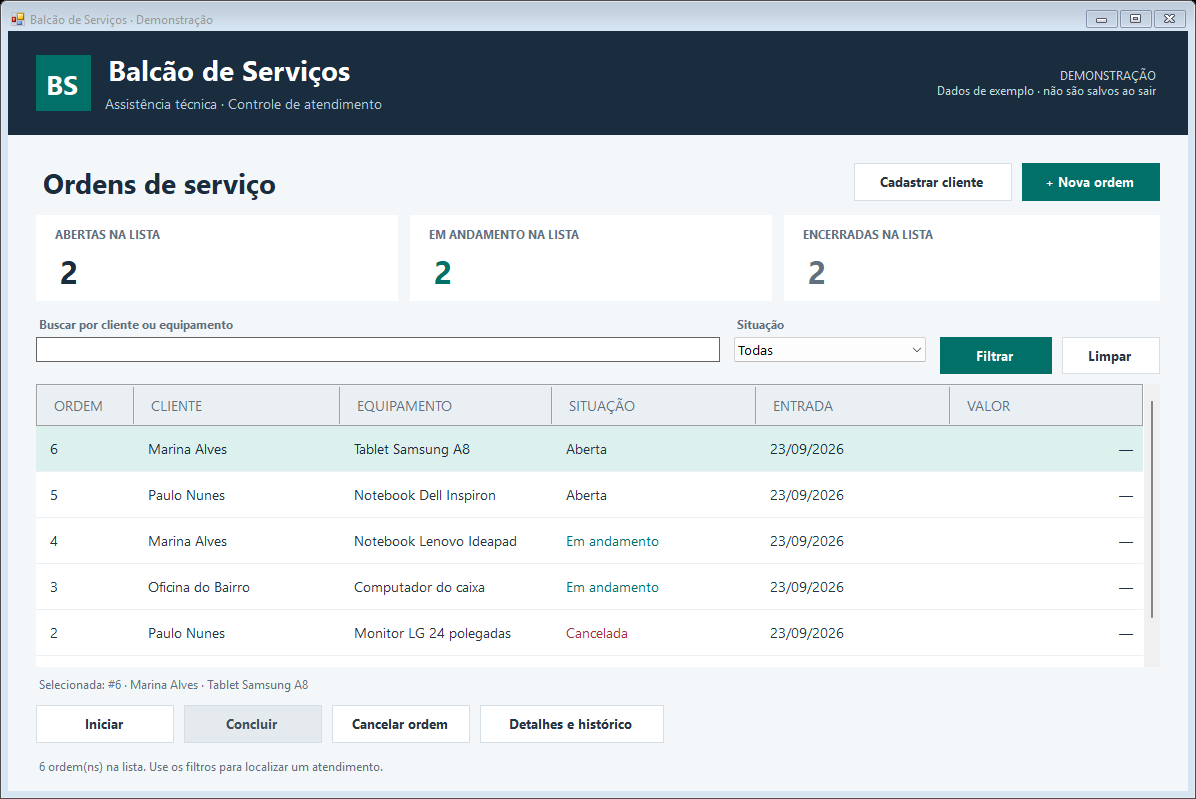
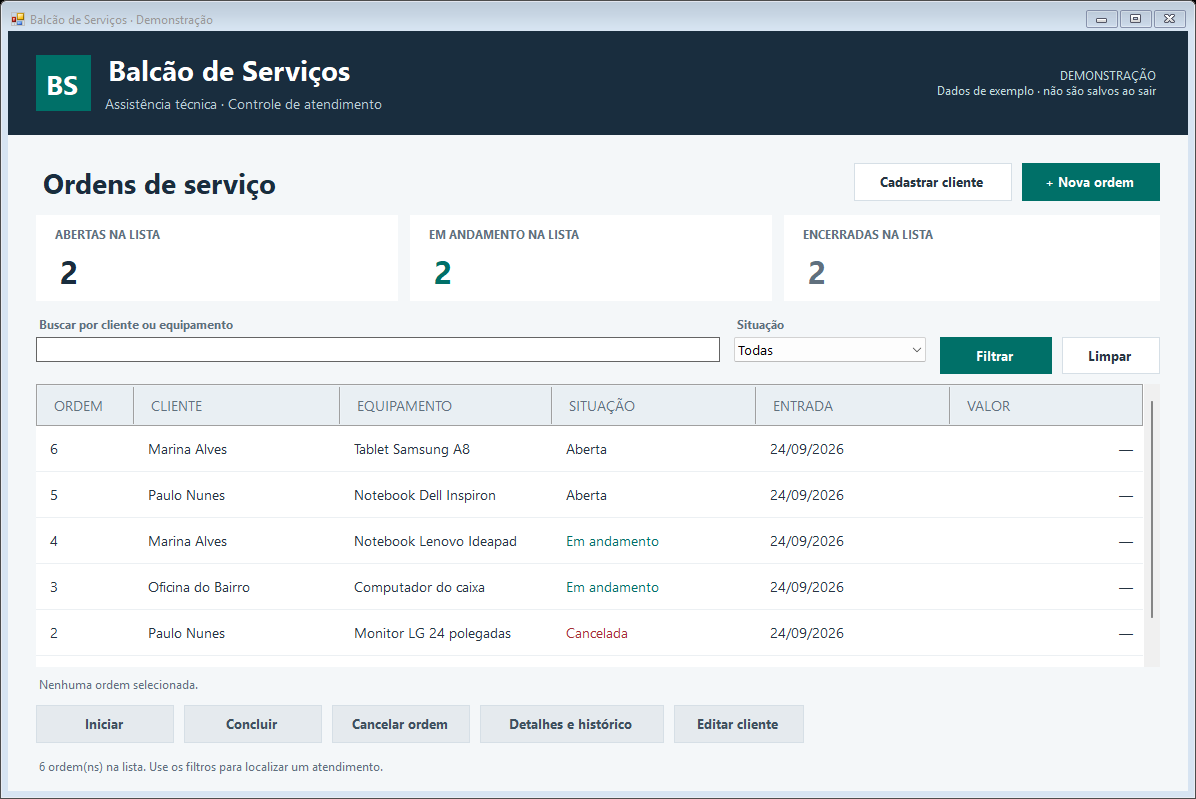
Corrigir selecao automatica apos filtrar ordens

Changed region(s): [[0.0309, 0.5106, 0.959, 0.6008], [0.2784, 0.8711, 0.6497, 0.9312], [0.0309, 0.8411, 0.2475, 0.9312]]

diff --git a/src/Balcao.WinForms/MainForm.cs b/src/Balcao.WinForms/MainForm.cs
@@ -211,6 +211,7 @@ namespace Balcao.WinForms
             tabela.Columns.Add(new DataGridViewTextBoxColumn { DataPropertyName = "CriadaEm", HeaderText = "ENTRADA", FillWeight = 13, DefaultCellStyle = new DataGridViewCellStyle { Format = "dd/MM/yyyy" } });
             tabela.Columns.Add(new DataGridViewTextBoxColumn { DataPropertyName = "ValorFinal", HeaderText = "VALOR", FillWeight = 13, DefaultCellStyle = new DataGridViewCellStyle { Format = "C2", FormatProvider = CultureInfo.GetCultureInfo("pt-BR"), NullValue = "—", Alignment = DataGridViewContentAlignment.MiddleRight } });
             tabela.SelectionChanged += delegate { AtualizarSelecao(); };
+            tabela.CurrentCellChanged += delegate { AtualizarSelecao(); };
             tabela.CellDoubleClick += delegate(object sender, DataGridViewCellEventArgs e) { if (e.RowIndex >= 0) Disparar(HistoricoSolicitado); };
             tabela.CellFormatting += delegate(object sender, DataGridViewCellFormattingEventArgs e)
             {
@@ -268,6 +269,10 @@ namespace Balcao.WinForms
             int? idAnterior = OrdemSelecionadaId;
             tabela.DataSource = null;
             tabela.DataSource = ordens;
+            // O DataGridView escolhe a primeira linha automaticamente ao trocar a fonte.
+            // Só mantemos uma seleção feita antes quando a mesma ordem ainda está na lista.
+            tabela.ClearSelection();
+            tabela.CurrentCell = null;
             int totalAbertas = 0, totalAndamento = 0, totalEncerradas = 0;
             foreach (OrdemResumo ordem in ordens)
             {

diff --git a/docs/COMO-EXPLICAR.md b/docs/COMO-EXPLICAR.md
@@ -29,6 +29,8 @@ Use **Iniciar atendimento** como exemplo e acompanhe estes arquivos:
 
 A regra fica no serviço porque precisa valer mesmo que outra tela venha a chamar a mesma operação. O botão desabilitado ajuda o usuário, mas a validação continua existindo fora da interface.
 
+No WinForms, trocar a fonte da tabela pode selecionar a primeira linha automaticamente. `MainForm.ExibirOrdens` limpa essa seleção depois da busca e só restaura o ID escolhido antes quando ele ainda aparece na lista. Assim, filtrar ordens não habilita ações para outro atendimento por acidente.
+
 Na edição do cliente, o presenter usa o ID da ordem para localizar o cliente. O serviço valida os campos antes de salvar. A lista consulta novamente o repositório e mostra o nome corrigido em todas as ordens do mesmo cliente; os registros de atendimento continuam ligados ao mesmo ID.
 
 ## Onde aparecem os fundamentos de C#

diff --git a/README.md b/README.md
@@ -21,6 +21,8 @@ Veja também o [cadastro de uma ordem](docs/nova-ordem.png) e os [detalhes do at
 
 Uma ordem passa de **Aberta → Em andamento → Concluída**. O cancelamento é permitido enquanto ela estiver aberta ou em andamento. Uma ordem encerrada não recebe novas alterações de situação.
 
+A lista inicia sem uma ordem selecionada. Depois de usar os filtros, as ações só ficam disponíveis quando você seleciona uma linha; se a ordem selecionada ainda aparecer no resultado, ela continua marcada.
+
 ## Rodar no Windows
 
 Para experimentar sem compilar, baixe o ZIP em [Releases](https://github.com/fbottega-dev/balcao-servicos-winforms/releases/latest), extraia a pasta inteira e abra `iniciar-demo.cmd`. É necessário ter o .NET Framework 4.8 instalado.
